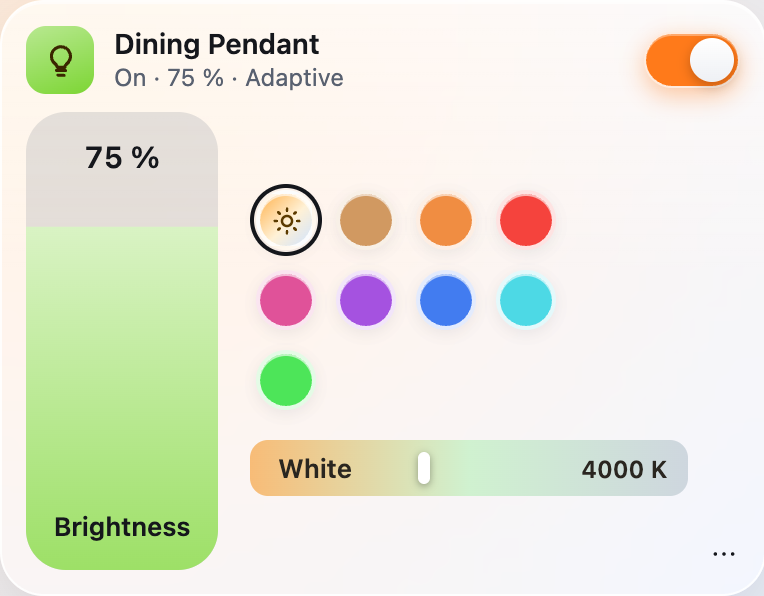
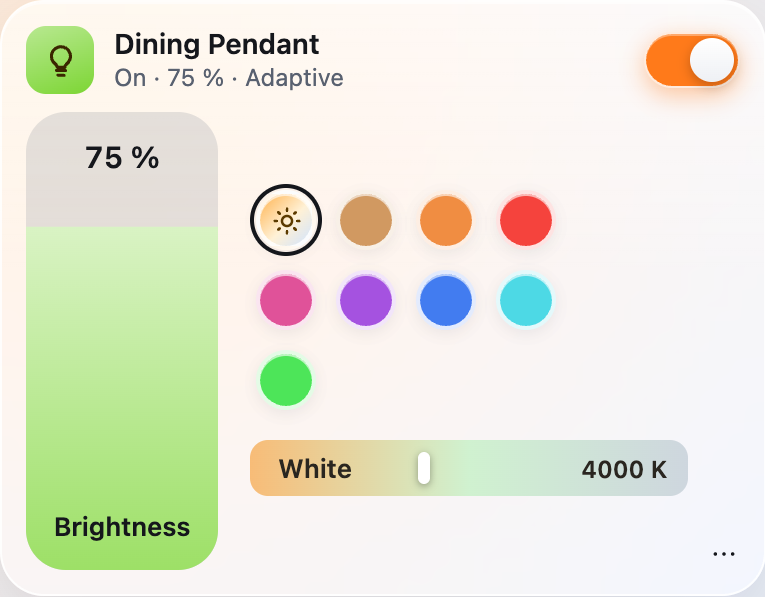
Compact tiles: the name and status end before the ⋯ button
On a compact tile the ⋯ button sits over the corner, and a long status ("Press
it to see it here") ran under it; the text now ends with an ellipsis before it.
The widget and plugin page screenshots and the design system's runtime copies
follow.

diff --git a/Sources/HomeswiftUI/WebAssets.swift b/Sources/HomeswiftUI/WebAssets.swift
@@ -18944,6 +18944,8 @@ input[type=search]::-webkit-search-decoration { -webkit-appearance: none; }
 .widget.size-small .tile { width: 40px; height: 40px; border-radius: 50%; }
 .widget.size-medium { justify-content: space-between; }
 .widget.size-medium .tile { width: 40px; height: 40px; border-radius: 50%; }
+/* The ⋯ button sits over the compact tile's corner: the name and status end before it. */
+.size-small .w-bottom .who { padding-right: 22px; }
 .size-small .w-bottom .menu-button { position: absolute; right: -6px; bottom: -6px; width: 26px; height: 26px; margin: 0; opacity: 1; color: var(--text); background: rgba(255, 255, 255, 0.92); border: 1px solid var(--line); box-shadow: 0 1px 3px rgba(0, 0, 0, 0.18); }
 /* Another controller's accessory (Apple Home's, through Wingman): a house badge on the tile's corner, ringed with the
    card's material so it reads as sitting on the tile. */

diff --git a/Sources/HomeswiftUI/Web/style.css b/Sources/HomeswiftUI/Web/style.css
@@ -734,6 +734,8 @@ input[type=search]::-webkit-search-decoration { -webkit-appearance: none; }
 .widget.size-small .tile { width: 40px; height: 40px; border-radius: 50%; }
 .widget.size-medium { justify-content: space-between; }
 .widget.size-medium .tile { width: 40px; height: 40px; border-radius: 50%; }
+/* The ⋯ button sits over the compact tile's corner: the name and status end before it. */
+.size-small .w-bottom .who { padding-right: 22px; }
 .size-small .w-bottom .menu-button { position: absolute; right: -6px; bottom: -6px; width: 26px; height: 26px; margin: 0; opacity: 1; color: var(--text); background: rgba(255, 255, 255, 0.92); border: 1px solid var(--line); box-shadow: 0 1px 3px rgba(0, 0, 0, 0.18); }
 /* Another controller's accessory (Apple Home's, through Wingman): a house badge on the tile's corner, ringed with the
    card's material so it reads as sitting on the tile. */

diff --git a/site/design/runtime/style.css b/site/design/runtime/style.css
@@ -734,6 +734,8 @@ input[type=search]::-webkit-search-decoration { -webkit-appearance: none; }
 .widget.size-small .tile { width: 40px; height: 40px; border-radius: 50%; }
 .widget.size-medium { justify-content: space-between; }
 .widget.size-medium .tile { width: 40px; height: 40px; border-radius: 50%; }
+/* The ⋯ button sits over the compact tile's corner: the name and status end before it. */
+.size-small .w-bottom .who { padding-right: 22px; }
 .size-small .w-bottom .menu-button { position: absolute; right: -6px; bottom: -6px; width: 26px; height: 26px; margin: 0; opacity: 1; color: var(--text); background: rgba(255, 255, 255, 0.92); border: 1px solid var(--line); box-shadow: 0 1px 3px rgba(0, 0, 0, 0.18); }
 /* Another controller's accessory (Apple Home's, through Wingman): a house badge on the tile's corner, ringed with the
    card's material so it reads as sitting on the tile. */
